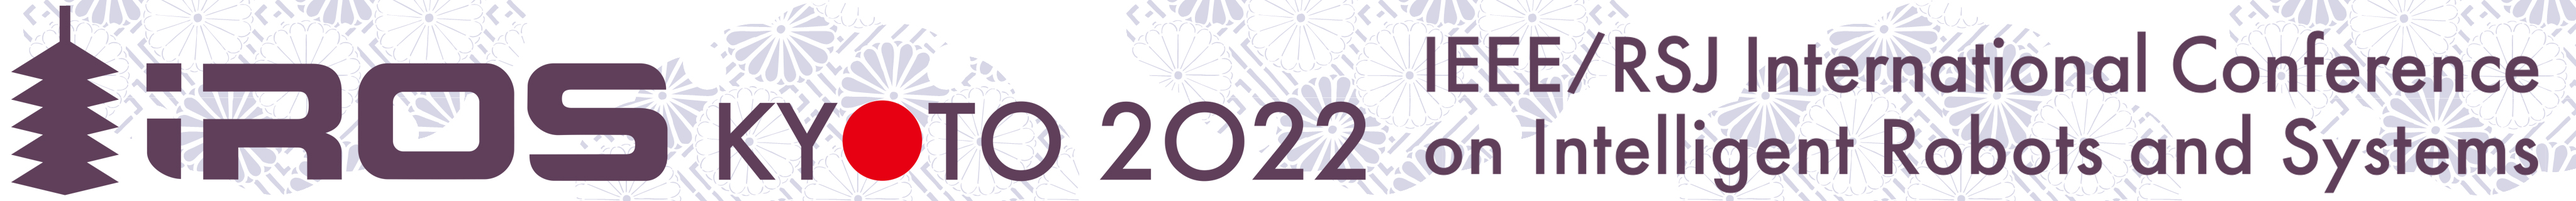
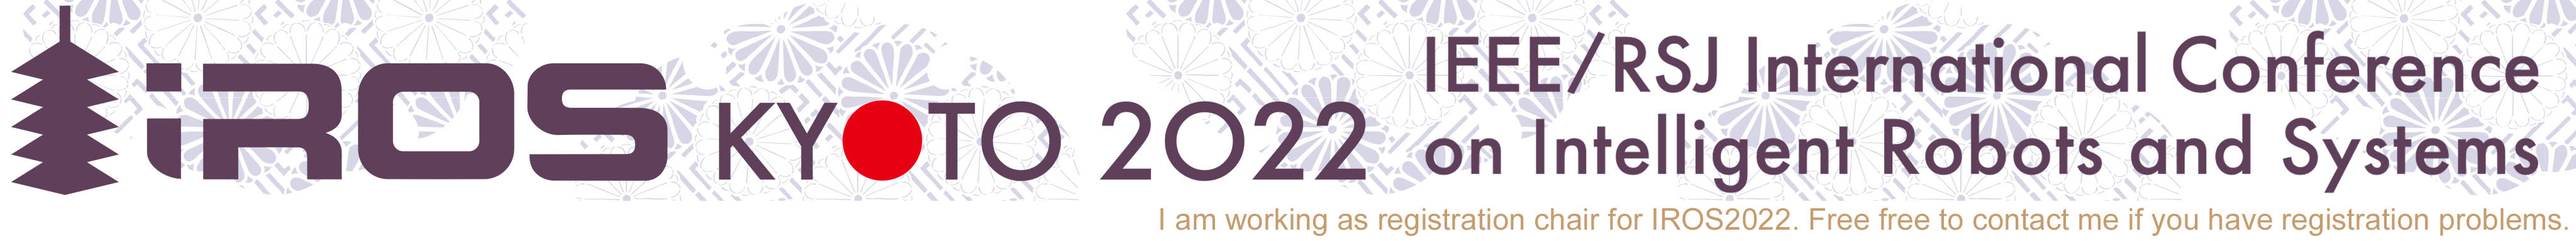
reg

diff --git a/_pages/about.md b/_pages/about.md
@@ -7,8 +7,7 @@ redirect_from:
   - /about/
   - /about.html
 ---
-<img src="https://wanweiwei07.github.io/images/iros_banner.jpg">
-<div style="text-align: right;"> * I am working as [registration](https://iros2022.org/registration/) chair for [IROS2022](https://iros2022.org/). </div>
+[<img src="https://wanweiwei07.github.io/images/iros_banner.jpg">](https://iros2022.org/registration/)
 This webiste is in English. For Japanese information, goto my [Researchmap](https://researchmap.jp/weiweiwan){:target="_blank"}. The following picture shows the robots in [our lab](https://www.roboticmanipulation.org/){:target="_blank"}. It is rendered using a simulation/planning system I developed under the support of [NEDO](https://www.nedo.go.jp/english/index.html){:target="_blank"}. A bunch of videos about the system can be found in [my Youtube channel](https://www.youtube.com/WeiweiWan/){:target="_blank"}.
 <img src="https://wanweiwei07.github.io/images/wrs_robots2.jpg">
 
